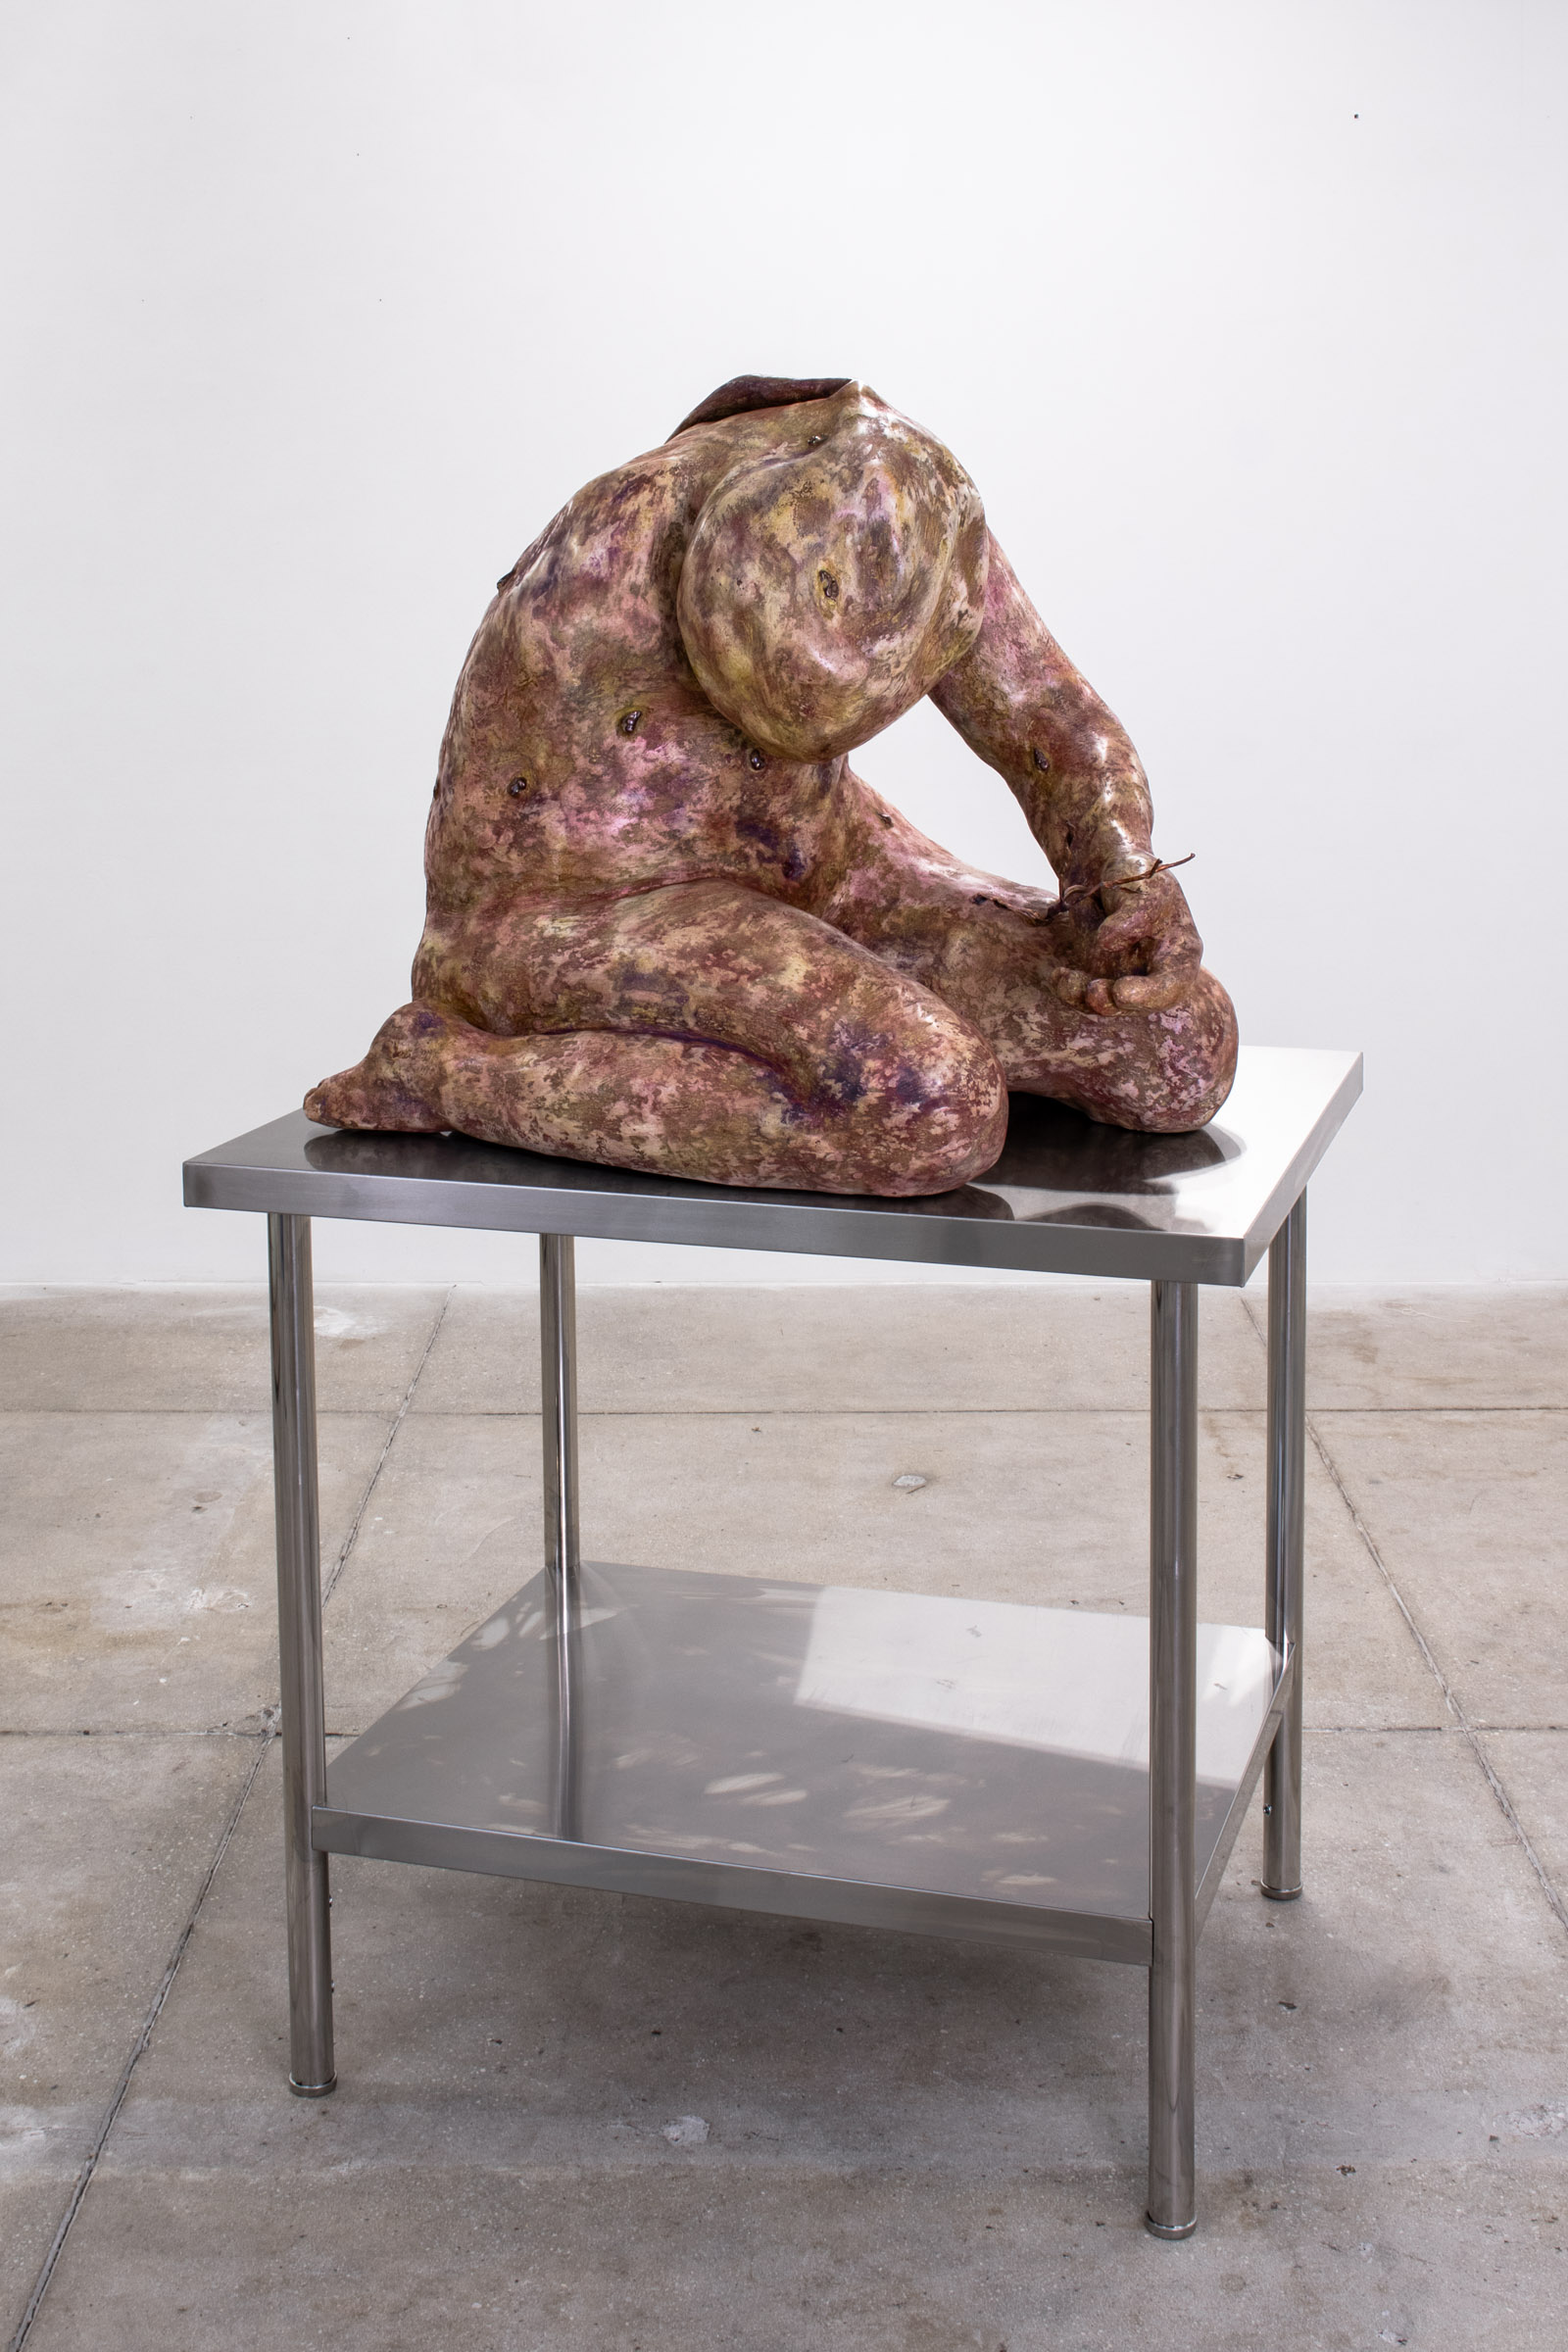
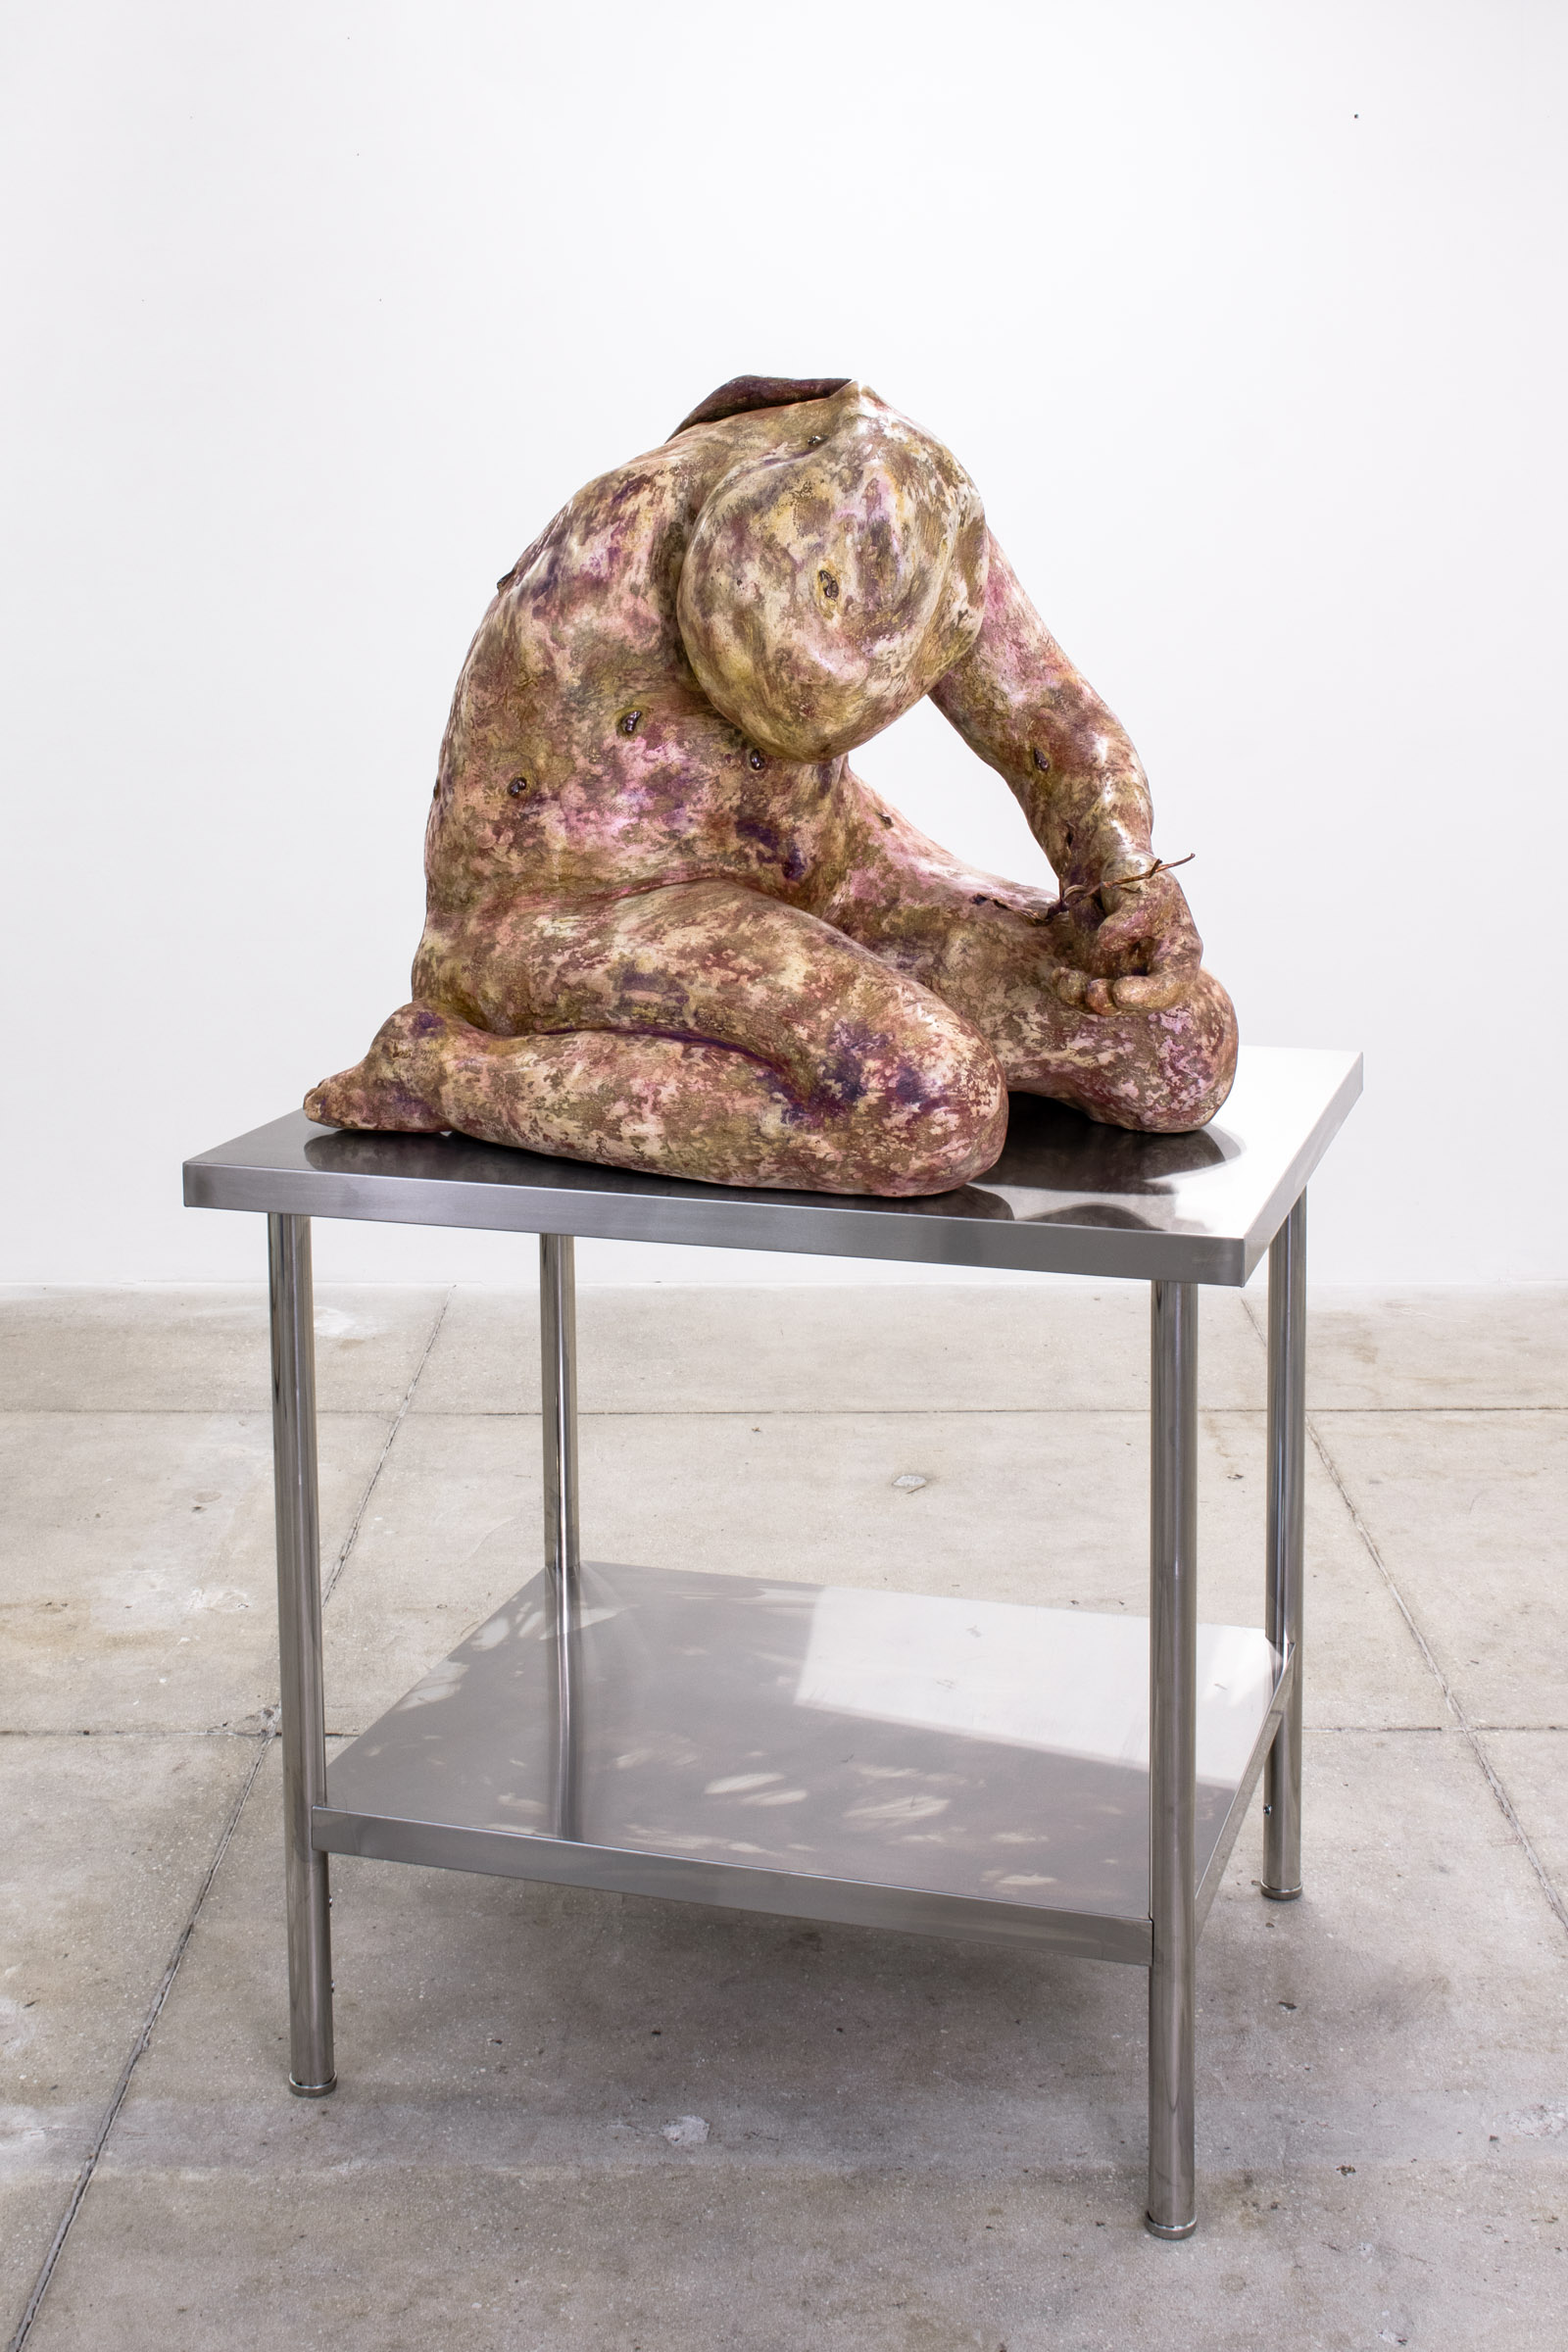
Update Quad Crush images

diff --git a/work/compartment-syndrome.html b/work/compartment-syndrome.html
@@ -10,6 +10,13 @@ layout: inner
 <h2> Included in <a href="/work/quadraphonic-crush" class="is-italic">Quadraphonic Crush</a></h2>
 
 <figure class="slide" id="compartment-syndrome">
+  <img src="/assets/img/work/2025/quadraphonic-crush/24_1.jpg">
+  <figcaption>
+    Photo by Alexander Perrelli
+  </figcaption>
+</figure>
+
+<figure class="slide" id="compartment-syndrome">
   <img src="/assets/img/work/2025/quadraphonic-crush/24.jpg">
 </figure>
 
